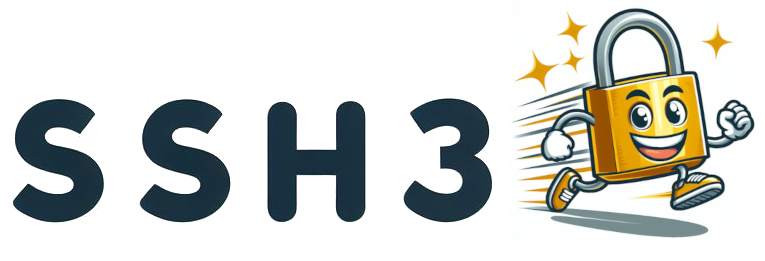
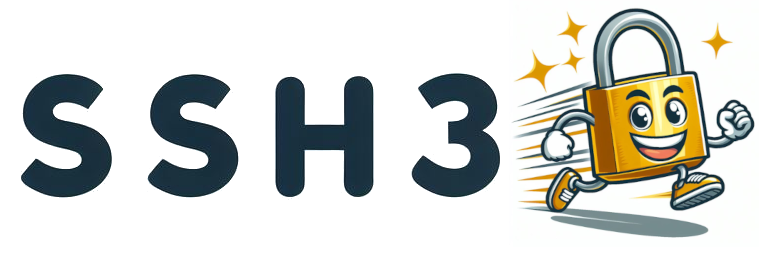
update figure i nreadme

Changed region(s): [[0.1804, 0.2759, 0.6614, 0.8582], [0.0, 0.2759, 0.1503, 0.8582]]

diff --git a/README.md b/README.md
@@ -1,7 +1,10 @@
+
+<<div align="center">
+<img src="resources/figures/ssh3.png" width=60%>
+</div>
+
+
 # SSH3: faster and rich secure shell using HTTP/3
-
-![](resources/figures/ssh3.png)
-
 SSH3 is a complete revisit of the SSH
 protocol, mapping its semantics on top of the HTTP mechanisms.
 In a nutshell, SSH3 uses QUIC+TLS1.3 for
